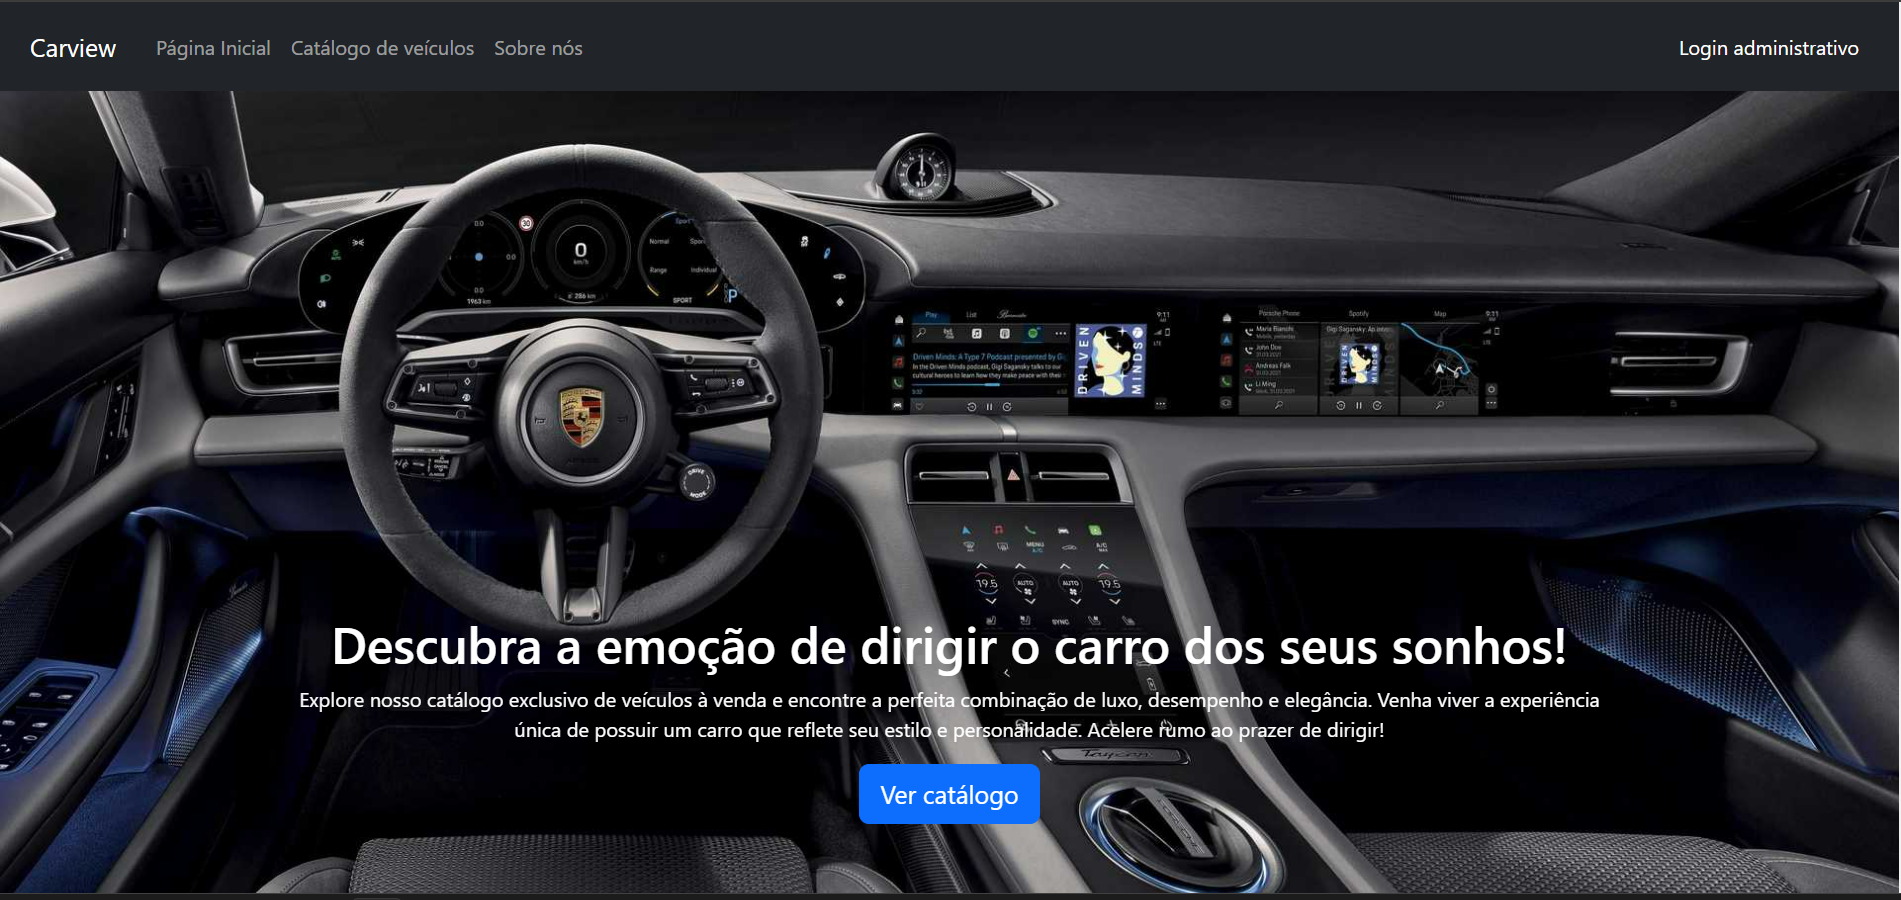
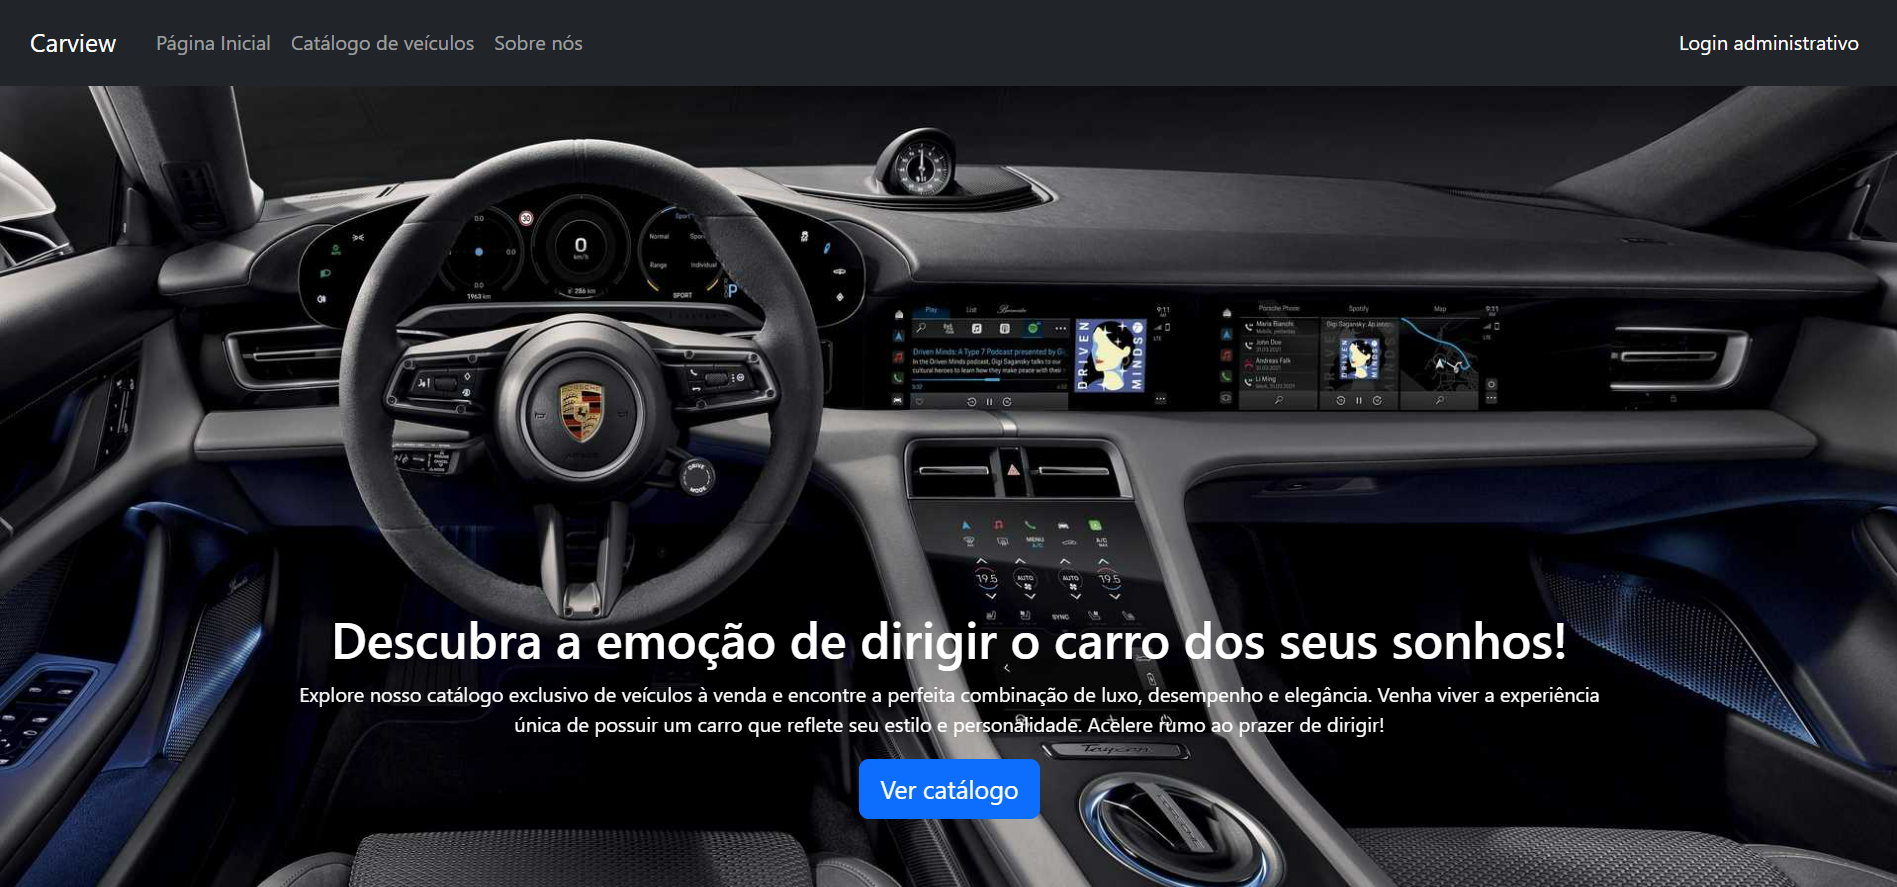
att print

diff --git a/readme.md b/readme.md
@@ -1,6 +1,6 @@
 # Car view, a fullstack car catalog project
 
-![Alt text](main_screen.png)
+![Print do site](main_screen.png)
 
 ## Technologies
     - Python
